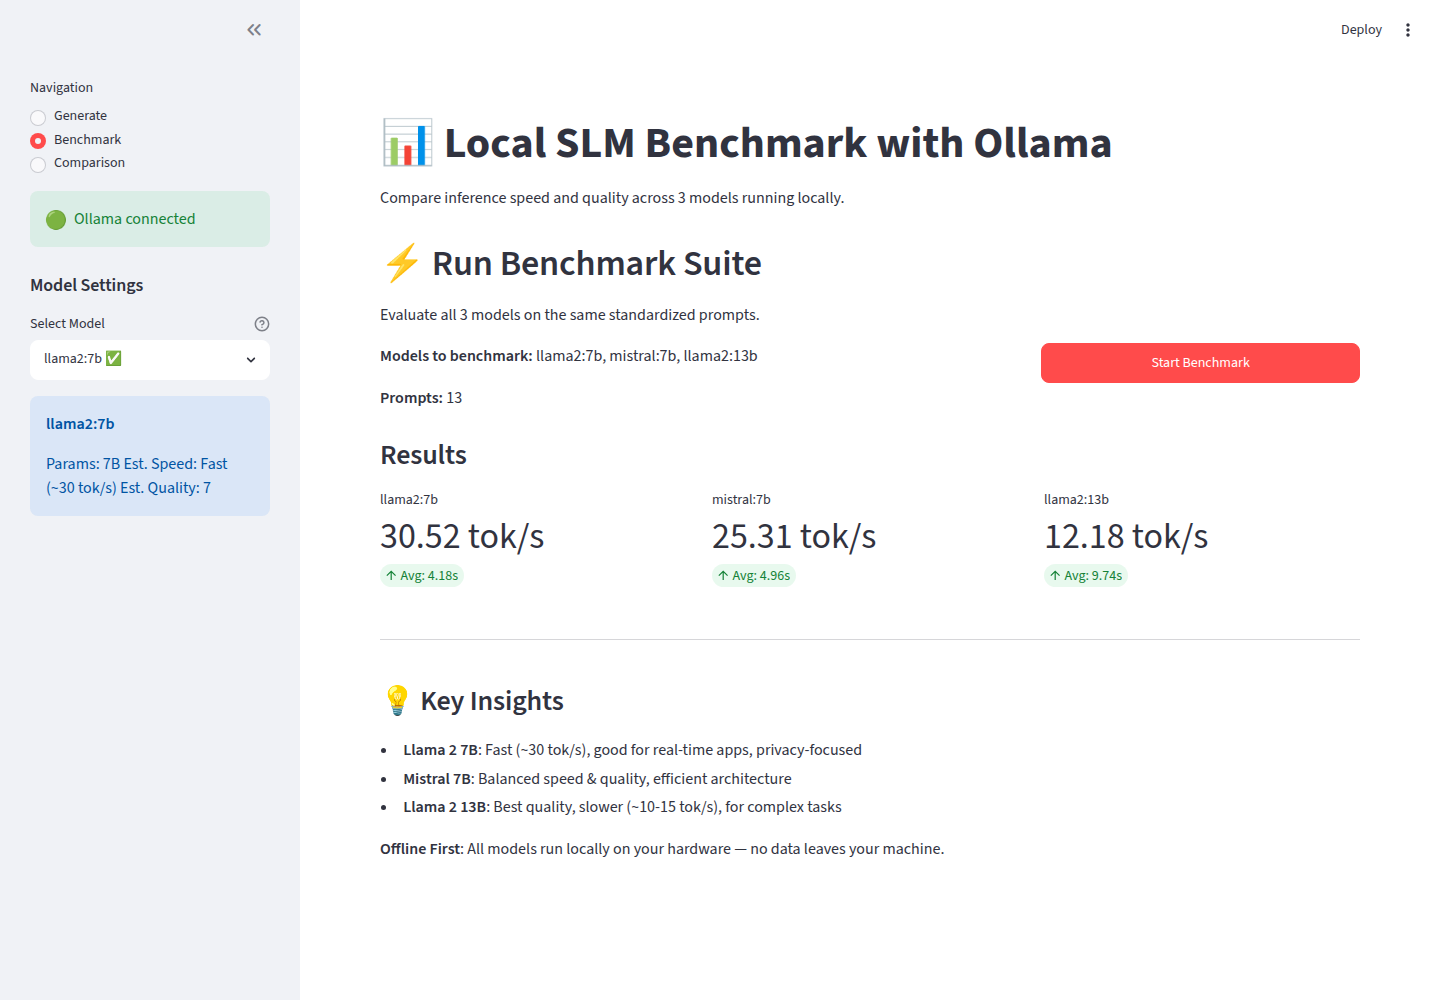
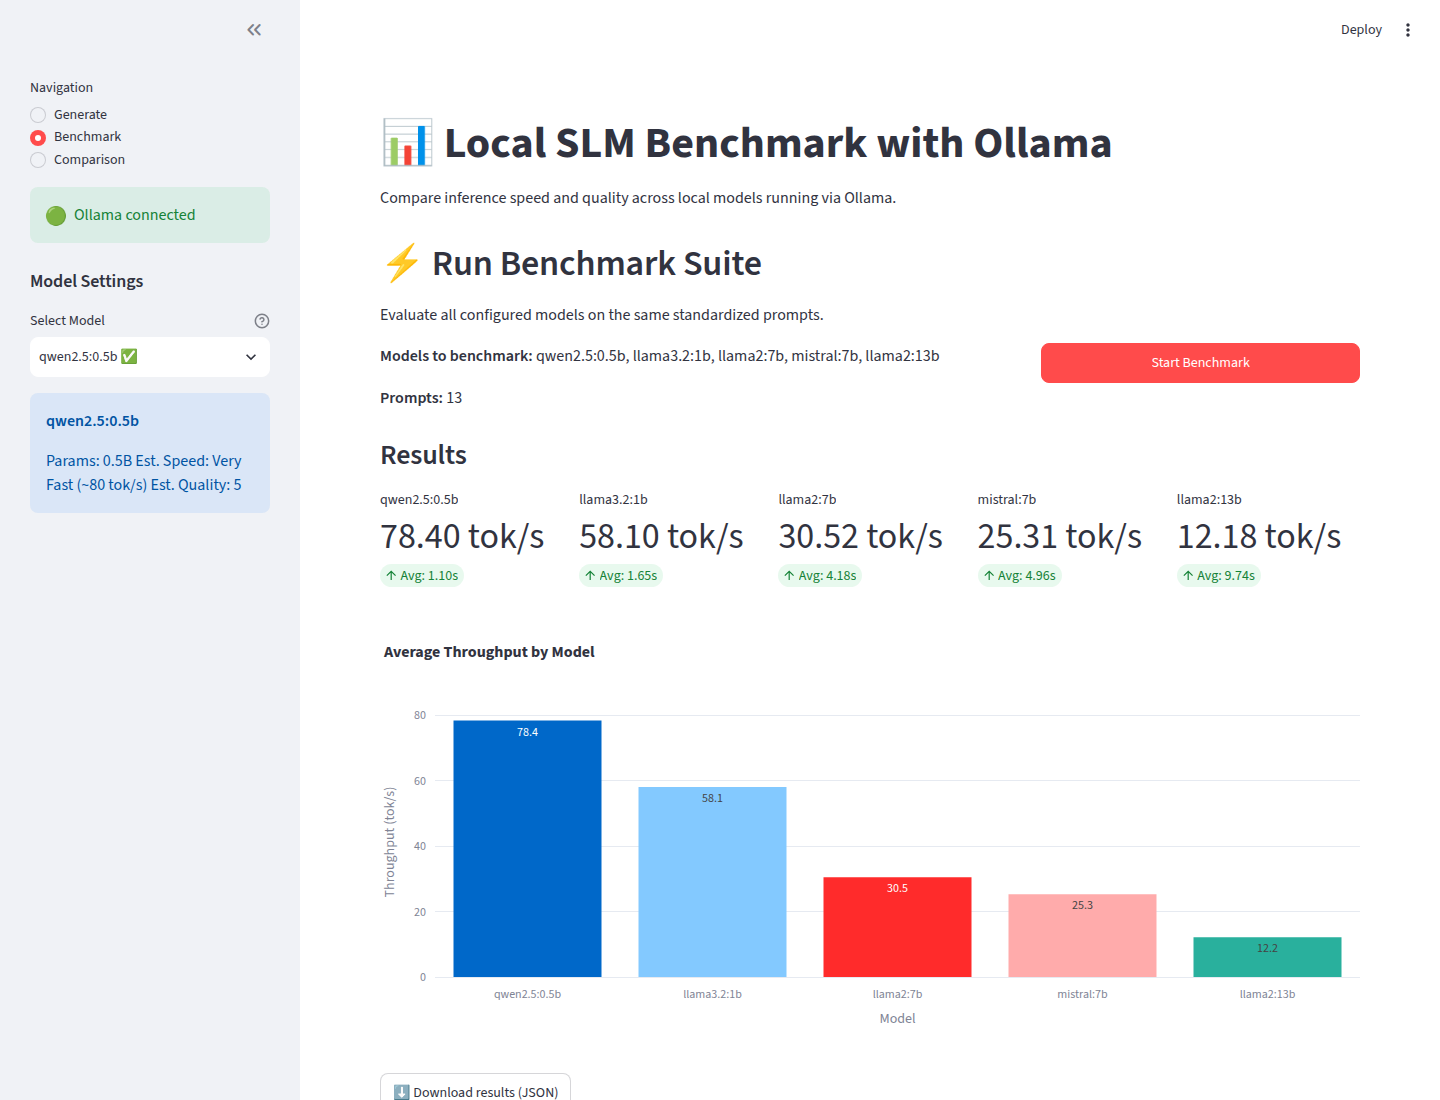
Add interactive Plotly charts, result exports, and a smoke test suite
- Benchmark page: render an interactive throughput bar chart and a
  'Download results (JSON)' button; fix the hard-coded 3-column metric
  layout that stacked models when more than three are configured
- Comparison page: add a speed bar chart, a speed-vs-quality scatter, and a
  'Download comparison (CSV)' button (puts the already-declared plotly
  dependency to use)
- Add tests/test_smoke.py covering config integrity and the inference client
  so the CI pytest step passes (previously no tests were collected)
- Refresh Benchmark/Comparison screenshots to show the new charts
- Minor: update stale '3 models' copy now that five models ship

Claude-Session: https://claude.ai/code/session_01VFJRXnEp9wbmSCKbJMjmBF

diff --git a/app.py b/app.py
@@ -2,6 +2,8 @@ import streamlit as st
 import time
 import json
 from datetime import datetime
+import pandas as pd
+import plotly.express as px
 from inference import OllamaInference, OllamaError
 from benchmark import run_benchmark, load_benchmark_results
 from config import MODELS, BENCHMARK_PROMPTS
@@ -14,7 +16,7 @@ st.set_page_config(
 )
 
 st.title("📊 Local SLM Benchmark with Ollama")
-st.markdown("Compare inference speed and quality across 3 models running locally.")
+st.markdown("Compare inference speed and quality across local models running via Ollama.")
 
 # Initialize session state
 if "benchmark_results" not in st.session_state:
@@ -150,7 +152,7 @@ if page == "Generate":
 
 elif page == "Benchmark":
     st.header("⚡ Run Benchmark Suite")
-    st.markdown("Evaluate all 3 models on the same standardized prompts.")
+    st.markdown("Evaluate all configured models on the same standardized prompts.")
 
     col1, col2 = st.columns([2, 1])
     with col1:
@@ -166,19 +168,47 @@ elif page == "Benchmark":
 
     if st.session_state.benchmark_results:
         st.markdown("### Results")
-        results_df = json.dumps(st.session_state.benchmark_results, indent=2)
+        results = st.session_state.benchmark_results
 
-        col1, col2, col3 = st.columns(3)
+        # Per-model metric cards — one column per benchmarked model
+        benchmarked = [m for m in MODELS.keys() if m in results]
+        if benchmarked:
+            metric_cols = st.columns(len(benchmarked))
+            for col, model_name in zip(metric_cols, benchmarked):
+                data = results[model_name]
+                col.metric(
+                    model_name,
+                    f"{data['avg_throughput']:.2f} tok/s",
+                    f"Avg: {data['avg_time']:.2f}s"
+                )
 
-        for model_name in MODELS.keys():
-            if model_name in st.session_state.benchmark_results:
-                data = st.session_state.benchmark_results[model_name]
-                with col1 if model_name == list(MODELS.keys())[0] else (col2 if model_name == list(MODELS.keys())[1] else col3):
-                    st.metric(
-                        model_name,
-                        f"{data['avg_throughput']:.2f} tok/s",
-                        f"Avg: {data['avg_time']:.2f}s"
-                    )
+            # Interactive throughput chart
+            chart_df = pd.DataFrame([
+                {
+                    "Model": m,
+                    "Throughput (tok/s)": results[m]["avg_throughput"],
+                    "Avg Time (s)": results[m]["avg_time"],
+                }
+                for m in benchmarked
+            ])
+            fig = px.bar(
+                chart_df.sort_values("Throughput (tok/s)", ascending=False),
+                x="Model",
+                y="Throughput (tok/s)",
+                color="Model",
+                text_auto=".1f",
+                title="Average Throughput by Model",
+            )
+            fig.update_layout(showlegend=False)
+            st.plotly_chart(fig, use_container_width=True)
+
+        # Export the raw results
+        st.download_button(
+            "⬇ Download results (JSON)",
+            data=json.dumps(results, indent=2),
+            file_name="benchmark_results.json",
+            mime="application/json",
+        )
 
 elif page == "Comparison":
     st.header("📈 Model Comparison")
@@ -198,7 +228,6 @@ elif page == "Comparison":
                 "Parameters": model_cfg["params"]
             })
 
-        import pandas as pd
         df = pd.DataFrame(comparison_data)
 
         col1, col2 = st.columns(2)
@@ -206,6 +235,12 @@ elif page == "Comparison":
         with col1:
             st.markdown("### Performance Metrics")
             st.dataframe(df, use_container_width=True)
+            st.download_button(
+                "⬇ Download comparison (CSV)",
+                data=df.to_csv(index=False),
+                file_name="model_comparison.csv",
+                mime="text/csv",
+            )
 
         with col2:
             st.markdown("### Trade-offs Summary")
@@ -214,6 +249,36 @@ elif page == "Comparison":
                     st.write(f"**Speed:** {row['Speed (tok/s)']:.2f} tokens/sec")
                     st.write(f"**Quality:** {row['Quality Rating']}/10")
                     st.write(f"**Parameters:** {row['Parameters']}")
+
+        # Visual comparison
+        st.markdown("### Visual Comparison")
+        chart1, chart2 = st.columns(2)
+
+        with chart1:
+            fig_speed = px.bar(
+                df.sort_values("Speed (tok/s)", ascending=False),
+                x="Model",
+                y="Speed (tok/s)",
+                color="Model",
+                text_auto=".1f",
+                title="Speed (tokens/sec)",
+            )
+            fig_speed.update_layout(showlegend=False)
+            st.plotly_chart(fig_speed, use_container_width=True)
+
+        with chart2:
+            fig_tradeoff = px.scatter(
+                df,
+                x="Speed (tok/s)",
+                y="Quality Rating",
+                color="Model",
+                text="Model",
+                title="Speed vs Quality Tradeoff",
+            )
+            fig_tradeoff.update_traces(textposition="top center")
+            fig_tradeoff.update_yaxes(range=[0, 10])
+            fig_tradeoff.update_layout(showlegend=False)
+            st.plotly_chart(fig_tradeoff, use_container_width=True)
 
 # Footer with useful info
 st.divider()

diff --git a/tests/test_smoke.py b/tests/test_smoke.py
@@ -1,0 +1,43 @@
+"""Smoke tests for the Local SLM Benchmark project.
+
+These validate module imports and configuration integrity. They intentionally
+avoid importing ``app.py`` (which executes Streamlit calls at import time) and
+do not require a running Ollama server, so they are safe to run in CI.
+"""
+import config
+from inference import OllamaInference, OllamaError
+
+
+def test_models_configured():
+    assert isinstance(config.MODELS, dict)
+    assert len(config.MODELS) >= 1
+    required_keys = {"name", "params", "speed", "quality"}
+    for name, meta in config.MODELS.items():
+        assert isinstance(name, str) and name
+        missing = required_keys - set(meta)
+        assert not missing, f"{name} is missing keys: {missing}"
+        assert isinstance(meta["quality"], int)
+        assert 0 <= meta["quality"] <= 10
+
+
+def test_lightweight_default_model_first():
+    # A small model should be the default (first) option for quick testing.
+    first_model = next(iter(config.MODELS))
+    assert config.MODELS[first_model]["params"] in {"0.5B", "1B"}
+
+
+def test_benchmark_prompts_present():
+    assert isinstance(config.BENCHMARK_PROMPTS, list)
+    assert len(config.BENCHMARK_PROMPTS) > 0
+    assert all(isinstance(p, str) and p for p in config.BENCHMARK_PROMPTS)
+
+
+def test_ollama_host_default():
+    assert config.OLLAMA_HOST.startswith("http")
+
+
+def test_inference_client_constructs():
+    client = OllamaInference()
+    assert client.host == config.OLLAMA_HOST
+    assert client.generate_url.endswith("/api/generate")
+    assert issubclass(OllamaError, Exception)
